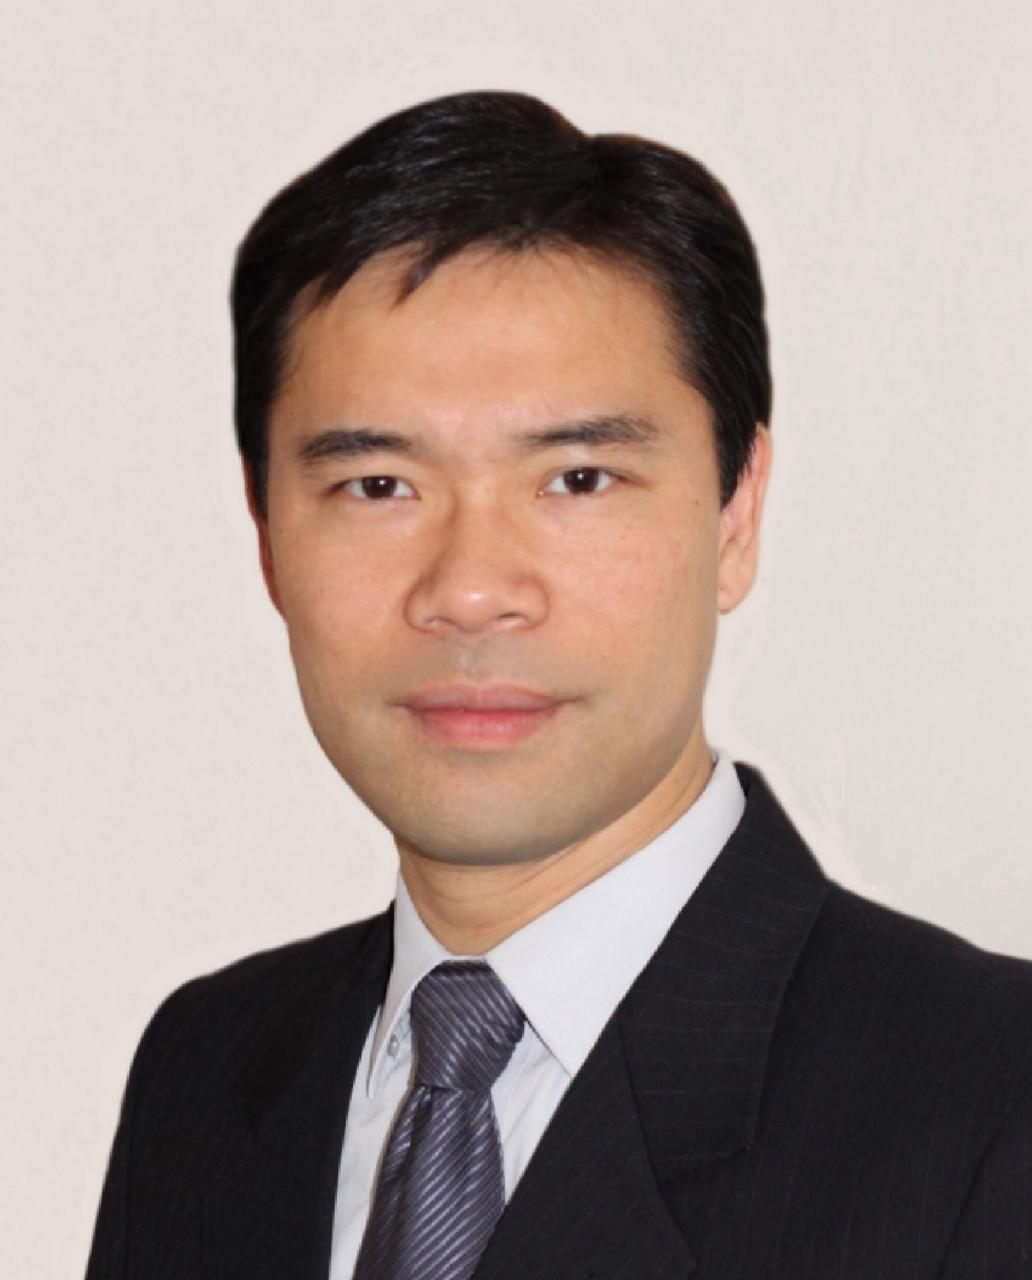
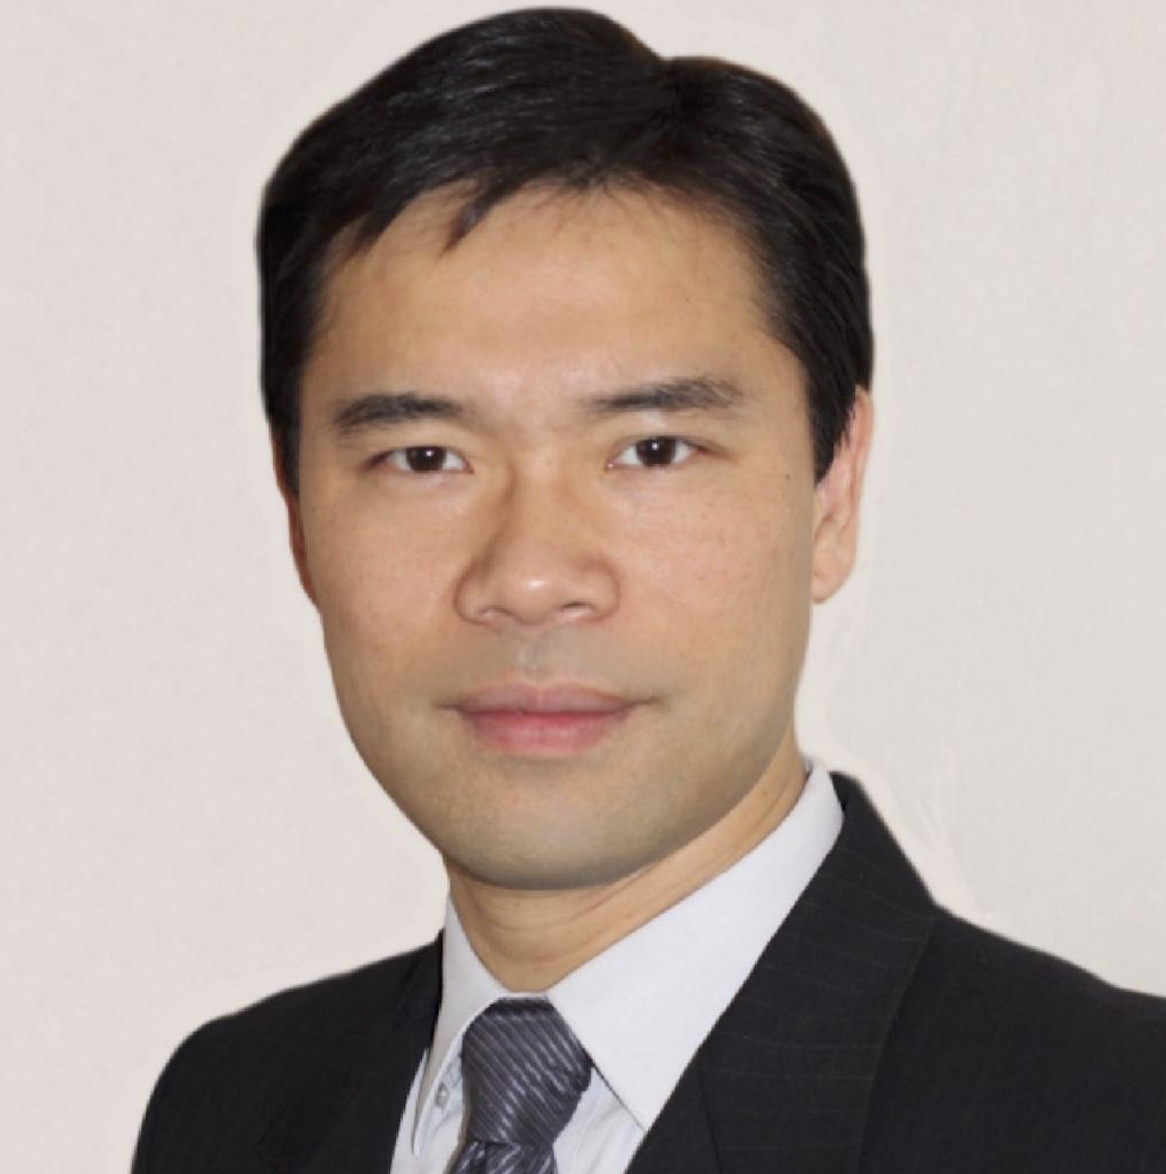
Minor updates (#21)
* Fix advisors pictures

* Change description

* Add events section

Changed region(s): [[0.062, 0.0, 1.0, 1.0]]

diff --git a/src/components/about/about.tsx b/src/components/about/about.tsx
@@ -3,11 +3,11 @@ import { Box, Flex, Text, Button, Heading } from "@chakra-ui/core";
 import { Link } from "gatsby";
 
 const aboutDescription =
-  "We are a non-profit student organization at The University of Hong Kong. Our aim is to create an environment of innovation, fostering entrepreneurial minds, by providing our members with the relevant skills and experience to participate in hackathons and encourage them to put their capabilities towards building extraordinary things. The society plans to work towards this goal by organizing workshops on hackathon-relevant skills and providing members with a platform to collaborate and actualise their dreams. This opportunity has been made possible with the help of our very capable sponsors.";
+  "We are a non-profit student organization at The University of Hong Kong and welcome all ability levels, from veteran to “Hello World!”. We teach how to tackle a hackathon which is nothing related to “Hacking Computers”. Our aim is to create an environment of innovation, fostering entrepreneurial minds, by providing you with the relevant skills and experience to participate in hackathons and use your capabilities towards building extraordinary things. To achieve these goals, we plan to organize tech talks, done by a student/staff member or inviting a guest speaker to campus. We also aim to share experiences and interest, for example one member may be particularly interested in or skilled with a certain scripting language and could provide an ad hoc crash courses for curious members, preparing them for events.";
 const aboutDescription2 =
-  "HackSoc has taken on the responsibility of organizing an annual hackathon, sponsored by the most prestigious university in Hong Kong, to bring together a community of tech-loving individuals and solve real-world problems. During the hackathon, we look forward to organizing mini-challenges and competitions to promote friendly competition and interaction between the participants.";
+  "HackSoc has taken on the responsibility of organizing an annual hackathon, sponsored by the most prestigious university in Hong Kong, to bring together a community of tech-loving individuals and solve real-world problems. It will also be accompanied by mini-challenges and competitions to promote helpful competition and interaction between the participants. We aspire to have a friendly, collaborative environment of people creating great things with the skills instilled in them throughout the course of membership which are massively sought after in any industry.";
 const visionDescription =
-  "The Hackathon Society is working towards building a community for all students. We plan to achieve this goal by creating activities across campus and opportunities for cross-disciplinary, as well as multinational, collaborative projects. By promoting an attitude favouring curiosity, creativity and collaboration, we hope to inspire students to grow their networks and take initiative to bring their ideas to life.";
+  "The Hackathon Society is working towards building a community for all students from various disciplines. The main goal is to remove the myths about Hackathon and make it accessible to each and everyone. We plan to achieve this goal by creating activities across campus and opportunities for cross-disciplinary, as well as multinational, collaborative projects. By promoting an attitude favouring curiosity, creativity and collaboration, we hope to inspire students to grow their networks and take initiative to bring their ideas to life. With this in mind, we welcome members from all degree programs who have an interest, or simply wish to learn how to stay safe in the information age.";
 
 const AboutContent: FunctionComponent = () => (
   <Box>

diff --git a/src/components/events/events.tsx b/src/components/events/events.tsx
@@ -1,0 +1,39 @@
+import React from "react";
+import { Box, Heading, Text, Button, Flex, Link } from "@chakra-ui/core";
+
+const eventsDescription =
+  "We plan to organize an Annual proprietary Hackathon which will not just be limited to HKU students but students from other universities as well. The main purpose behind this is to promote cross-discipline collaboration and give our students a platform to connect with like-minded individuals. This would promote creativity and curiosity among our students which will help them take the initiative to start their own projects. We will also have workshops to prepare the potential participants for the hackathon.";
+
+const EventContent: FunctionComponent = () => (
+  <Box>
+    <Heading textAlign="center" as="h1" size="lg" p={5}>
+      Events
+    </Heading>
+    <Text fontSize={["md", "md", "lg", "lg"]}>{eventsDescription}</Text>
+    <Flex direction="center" justify="center" py={3}>
+      <Button backgroundColor="primary" color="text" _hover={{ bg: "primary" }}>
+        <Link
+          href="https://docs.google.com/forms/d/e/1FAIpQLSeIUiGCUrceRNAir7Q1ht4rGKEfGeJsWwQmTMT_R75vuicdZg/viewform?usp=sf_link"
+          isExternal
+        >
+          Register
+        </Link>
+      </Button>
+    </Flex>
+  </Box>
+);
+
+export const Events: FunctionComponent = () => (
+  <Flex
+    id="about"
+    px={[10, 20, 30, 40]}
+    py={[10, 10, 20, 20]}
+    color="primary"
+    align="center"
+    textAlign="left"
+    direction="column"
+    backgroundColor="text"
+  >
+    <EventContent />
+  </Flex>
+);

diff --git a/src/pages/index.tsx b/src/pages/index.tsx
@@ -5,6 +5,7 @@ import {
   Home,
   Layout,
   About,
+  Events,
   Sponsors,
   Advisors,
   Team,
@@ -19,6 +20,7 @@ const IndexPage: FunctionComponent<> = () => {
       <NavBar activeHash={activeHash} setActiveHash={setActiveHash} />
       <Home />
       <About />
+      <Events />
       <Sponsors />
       <Advisors />
       <Team />

diff --git a/src/components/index.ts b/src/components/index.ts
@@ -7,3 +7,4 @@ export { Team } from "./team";
 export { Contact } from "./contact";
 export { Footer } from "./footer";
 export { Advisors } from "./advisors";
+export { Events } from "./events";

diff --git a/src/components/events/index.ts b/src/components/events/index.ts
@@ -1,0 +1,1 @@
+export { Events } from "./events";
